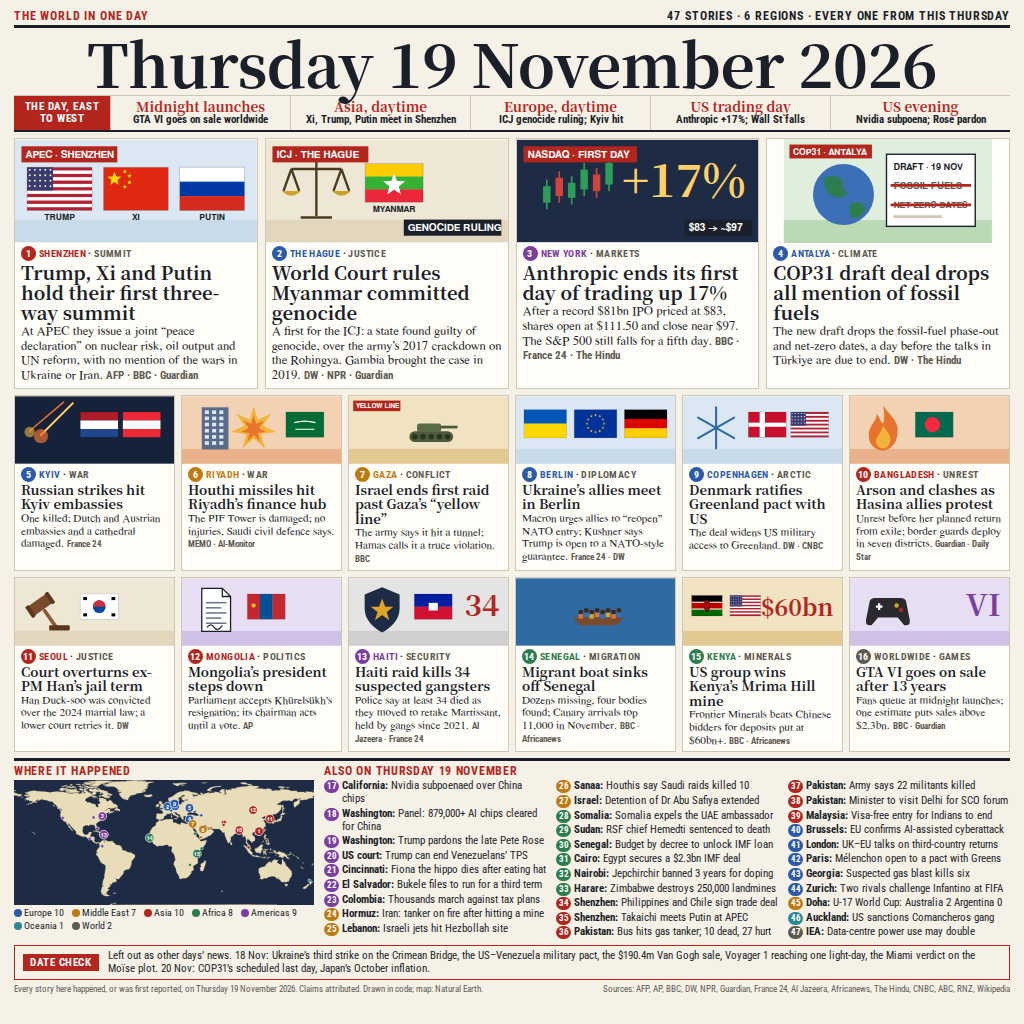
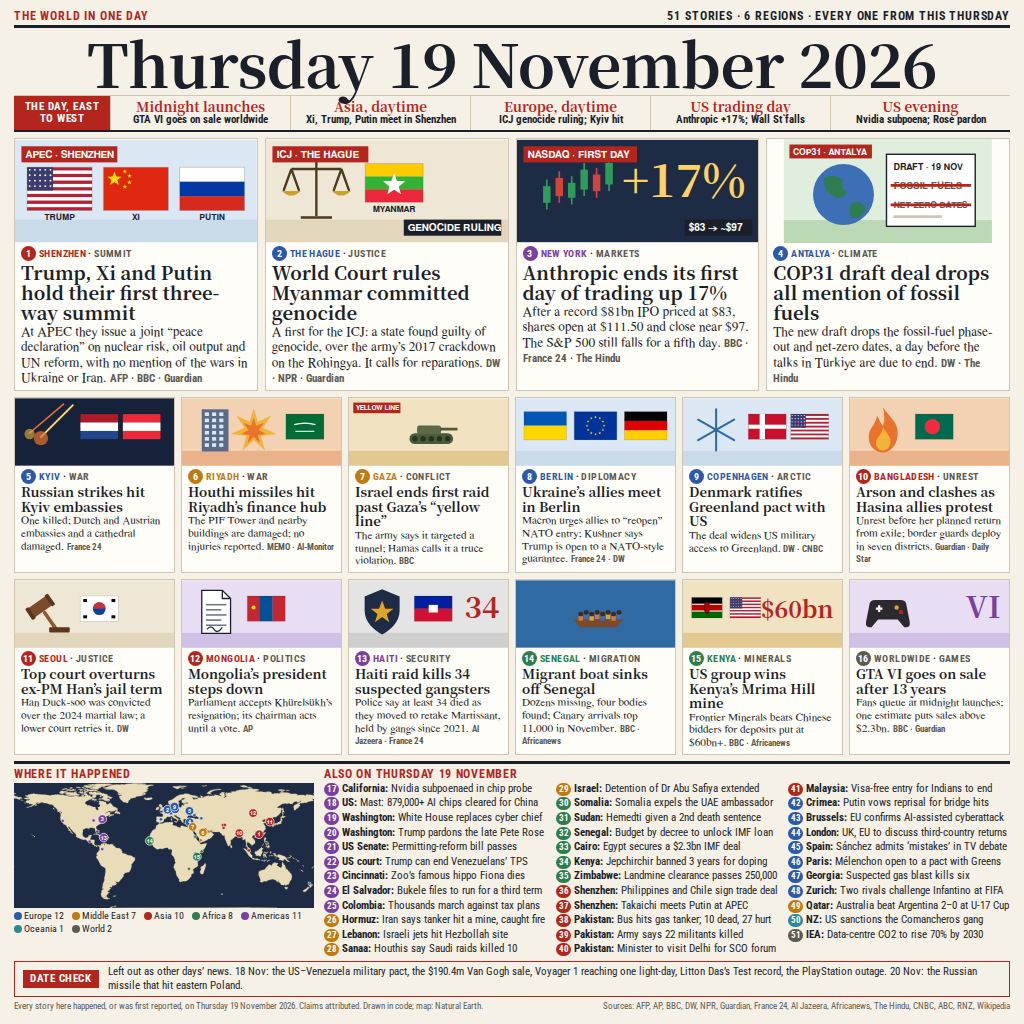
Front page for Thursday 19 November 2026, v2: 51 stories

Changed region(s): [[0.0, 0.2812, 1.0, 1.0]]

diff --git a/main.py b/main.py
@@ -40,6 +40,8 @@ def run() -> None:
     width, height = verify(blob)
     TARGET.parent.mkdir(parents=True, exist_ok=True)
     TARGET.write_bytes(blob)
+    # Read the copy back: a short or failed write must stop the run, not ship a broken image.
+    assert TARGET.read_bytes() == blob, f"{TARGET} does not match entry.png after the write"
     print(f"wrote {TARGET} ({width}x{height}, {len(blob)} bytes)")
 
 

diff --git a/README.md b/README.md
@@ -4,7 +4,7 @@
 [![rank](https://make.fun/badge/news-image-20261119/systems-exmachina/world-in-one-day-20261119/rank.svg)](https://make.fun/bounty/news-image-20261119/leaderboard?utm_source=github&utm_medium=readme&utm_campaign=news-image-20261119)
 [![reward](https://make.fun/badge/news-image-20261119/systems-exmachina/world-in-one-day-20261119/reward.svg)](https://make.fun/bounty/news-image-20261119?utm_source=github&utm_medium=readme&utm_campaign=news-image-20261119)
 
-One front page for Thursday 19 November 2026: 47 attributed stories from six world regions, with a day timeline, a locator map and a date check that names the stories left out because they broke on another day. The facts come from public reports (AFP, AP, BBC, DW, NPR, Guardian, France 24, Al Jazeera, Africanews, The Hindu, CNBC, ABC, RNZ) and Wikipedia's Current events portal, written in our own words; every picture and the map are drawn in code (map outlines: Natural Earth, public domain). `main.py` checks `entry.png` against the contest's gate and copies it to the output folder.
+One front page for Thursday 19 November 2026: 51 attributed stories from six world regions, with a day timeline, a locator map and a date check that names the stories left out because they broke on another day. This is the second, complete version, made after the day had ended everywhere: it adds four stories, corrects details against fuller reports, and checks the date-check list against Wikipedia's pages for 18 and 20 November. The facts come from public reports (AFP, AP, BBC, DW, NPR, Guardian, France 24, Al Jazeera, Africanews, The Hindu, CNBC, ABC, RNZ) and Wikipedia's Current events portal, written in our own words; every picture and the map are drawn in code (map outlines: Natural Earth, public domain). `main.py` checks `entry.png` against the contest's gate and copies it to the output folder.
 
 This entry was built by an AI coding agent (Claude Code) for ExMachina Systems. The agent sessions that built it are uploaded to make.fun with the entry.
 
